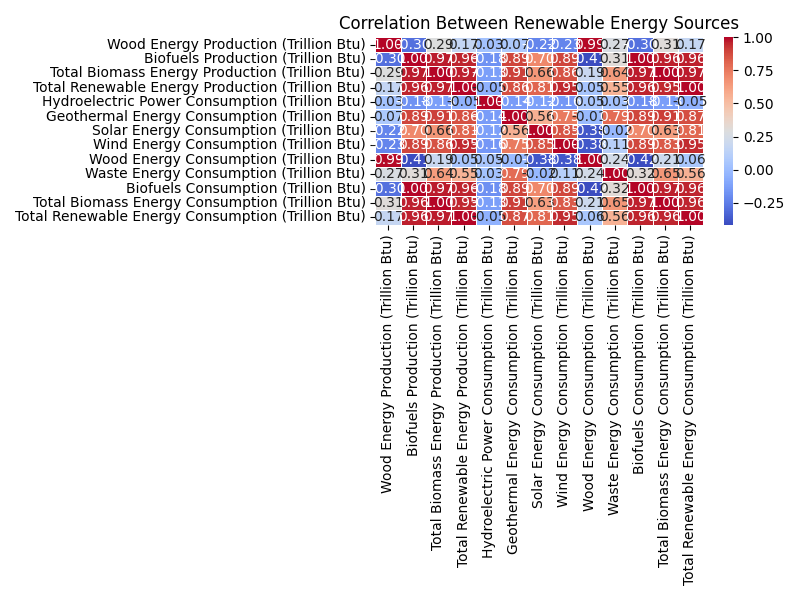
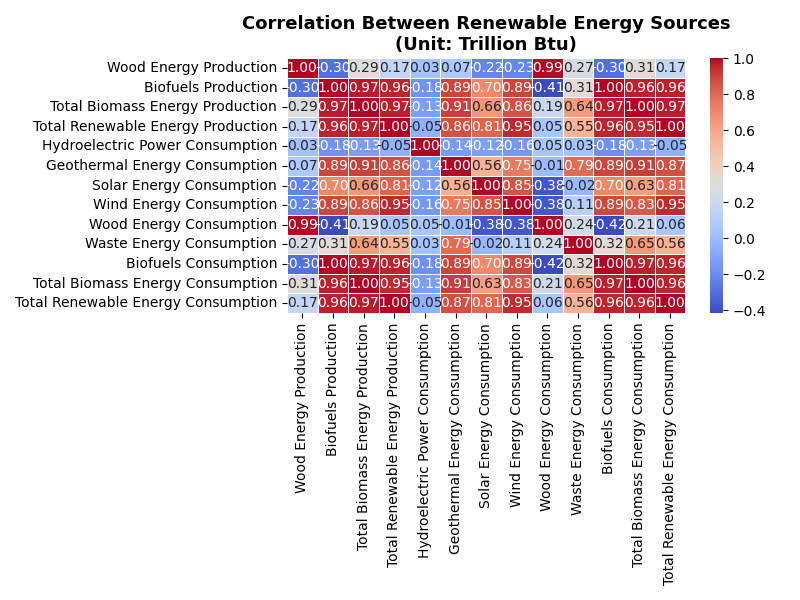
editing

diff --git a/scripts/analyze_energy.py b/scripts/analyze_energy.py
@@ -63,12 +63,13 @@ print("✅ Cleaned data saved → output/energy_long.csv")
 # === 4⃣ Visualizations ===
 
 ## (a) Trend line
+df_long["Source"] = df_long["Source"].str.replace(r"\s*\(Trillion Btu\)", "", regex=True)
 plt.figure(figsize=(10, 6))
 sns.lineplot(data=df_long, x="Year", y="Value", hue="Source", linewidth=2)
 plt.title("Renewable Energy Trends by Source (Trillion Btu)")
 plt.xlabel("Year")
 plt.ylabel("Energy (Trillion Btu)")
-plt.legend(bbox_to_anchor=(1.05, 1), loc="upper left")
+plt.legend(bbox_to_anchor=(1.05, 1), title="Energy Source", loc="upper left")
 plt.tight_layout()
 plt.savefig(os.path.join(output_dir, "renewable_trends.png"))
 plt.close()
@@ -79,7 +80,7 @@ avg_growth = df_long.groupby("Source")["Growth (%)"].mean().dropna().sort_values
 
 plt.figure(figsize=(8, 6))
 sns.barplot(x=avg_growth.values, y=avg_growth.index, palette="crest")
-plt.title("Average Annual Growth Rate by Energy Source (%)")
+plt.title("Average Annual Growth Rate by Energy Source (Unit: %)", fontsize = 12)
 plt.xlabel("Average Growth Rate (%)")
 plt.ylabel("")
 plt.tight_layout()
@@ -88,34 +89,72 @@ plt.close()
 
 ## (c) Pie chart for latest year
 latest_year = df_long["Year"].max()
-mix = df_long[df_long["Year"] == latest_year].groupby("Source")["Value"].sum().sort_values(ascending=False)
+mix = (
+    df_long[df_long["Year"] == latest_year]
+    .groupby("Source")["Value"]
+    .sum()
+    .sort_values(ascending=False)
+)
 
 plt.figure(figsize=(8, 8))
-plt.pie(mix, labels=mix.index, autopct="%1.1f%%", startangle=90, colors=sns.color_palette("pastel"))
-plt.title(f"Renewable Energy Mix by Source ({latest_year})")
+wedges, texts, autotexts = plt.pie(
+    mix,
+    labels=None,  # remove text labels from the pie
+    autopct="%1.1f%%",
+    startangle=90,
+    colors=sns.color_palette("pastel"),
+)
+
+# Add a clear, concise title
+plt.title(
+    f"Renewable Energy Mix by Source – {latest_year}\n(Unit: Trillion Btu)",
+    fontsize=13,
+    weight="bold"
+)
+
+# Add a legend (key) to the right
+plt.legend(
+    mix.index,
+    title="Energy Source",
+    loc="center left",
+    bbox_to_anchor=(1, 0.5),
+    fontsize=9,
+)
+
 plt.tight_layout()
-plt.savefig(os.path.join(output_dir, "energy_mix_pie.png"))
+plt.savefig(os.path.join(output_dir, "energy_mix_pie.png"), bbox_inches="tight")
 plt.close()
 
-## (d) Correlation heatmap
-numeric_df = df.select_dtypes("number").drop(columns=["Year"], errors="ignore")
-if not numeric_df.empty:
-    corr = numeric_df.corr()
-    plt.figure(figsize=(8, 6))
-    sns.heatmap(corr, annot=True, cmap="coolwarm", fmt=".2f", linewidths=0.5)
-    plt.title("Correlation Between Renewable Energy Sources")
-    plt.tight_layout()
-    plt.savefig(os.path.join(output_dir, "correlation_heatmap.png"))
-    plt.close()
 
-## (e) Stacked area chart
-df_area = df.set_index("Year").select_dtypes("number")
-df_area.plot(kind="area", stacked=True, figsize=(10, 6), alpha=0.85, colormap="Set2")
-plt.title("Stacked Area Chart – Renewable Energy Consumption by Source")
+## (d) Correlation heatmap
+numeric_cols = df.select_dtypes(include="number").drop(columns=["Year"], errors="ignore")
+numeric_cols = numeric_cols.rename(columns=lambda c: c.replace(" (Trillion Btu)", ""))
+
+corr = numeric_cols.corr()
+plt.figure(figsize=(8, 6))
+sns.heatmap(corr, annot=True, cmap="coolwarm", fmt=".2f", linewidths=0.5)
+plt.title("Correlation Between Renewable Energy Sources\n(Unit: Trillion Btu)", fontsize=13, weight="bold")
+plt.tight_layout()
+plt.savefig(os.path.join(output_dir, "correlation_heatmap.png"))
+plt.close()
+
+## (e) Stacked Area Chart: Total Renewable Energy Consumption ---
+df_area = df.set_index("Year").select_dtypes(include="number")
+
+# Clean column names (remove "(Trillion Btu)")
+cleaned_cols = [col.replace(" (Trillion Btu)", "") for col in df_area.columns]
+df_area.columns = cleaned_cols
+
+plt.figure(figsize=(10, 6))
+df_area.plot(kind="area", stacked=True, alpha=0.85, colormap="Set2")
+plt.title("Stacked Area Chart – Renewable Energy Consumption by Source\n(Unit: Trillion Btu)", fontsize=12)
 plt.ylabel("Trillion Btu")
 plt.xlabel("Year")
+plt.legend(title="Energy Source", fontsize=8, bbox_to_anchor=(1.05, 1), loc="upper left")
 plt.tight_layout()
 plt.savefig(os.path.join(output_dir, "stacked_renewables.png"))
 plt.close()
+
+print("✅ Updated stacked area chart saved with cleaner legend titles.")
 
 print("✅ All visuals successfully generated in /output/")
